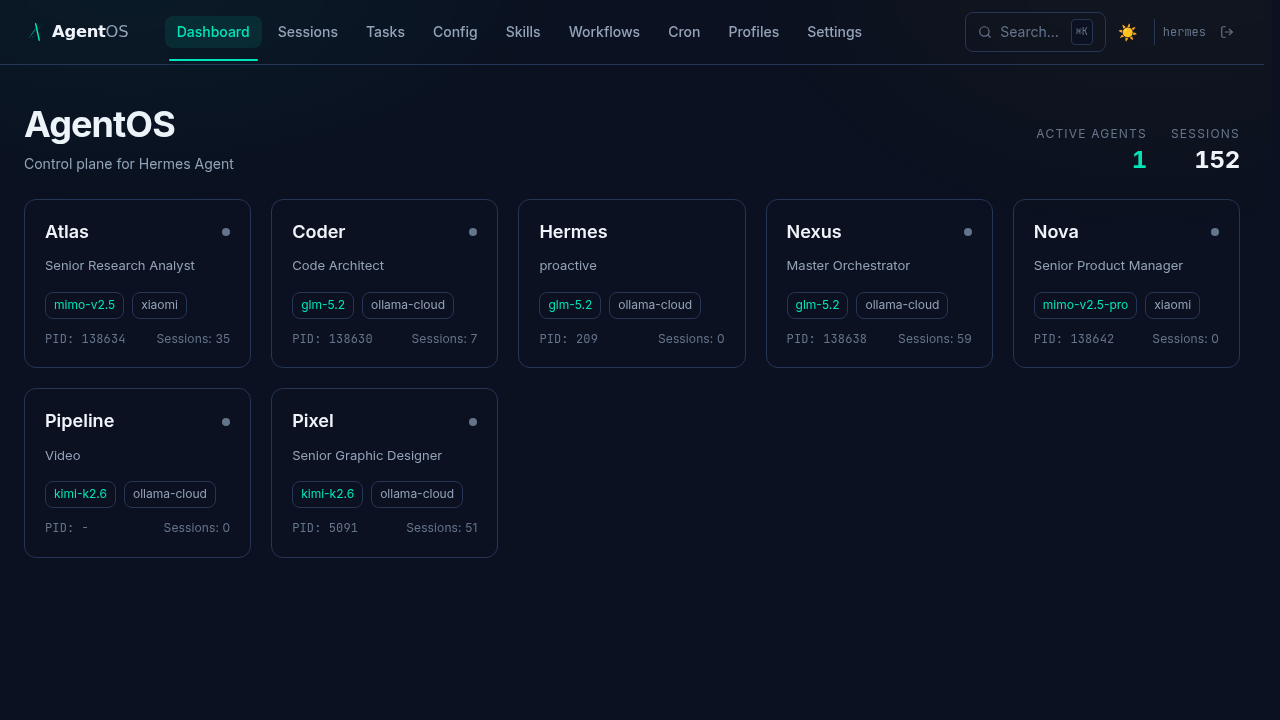
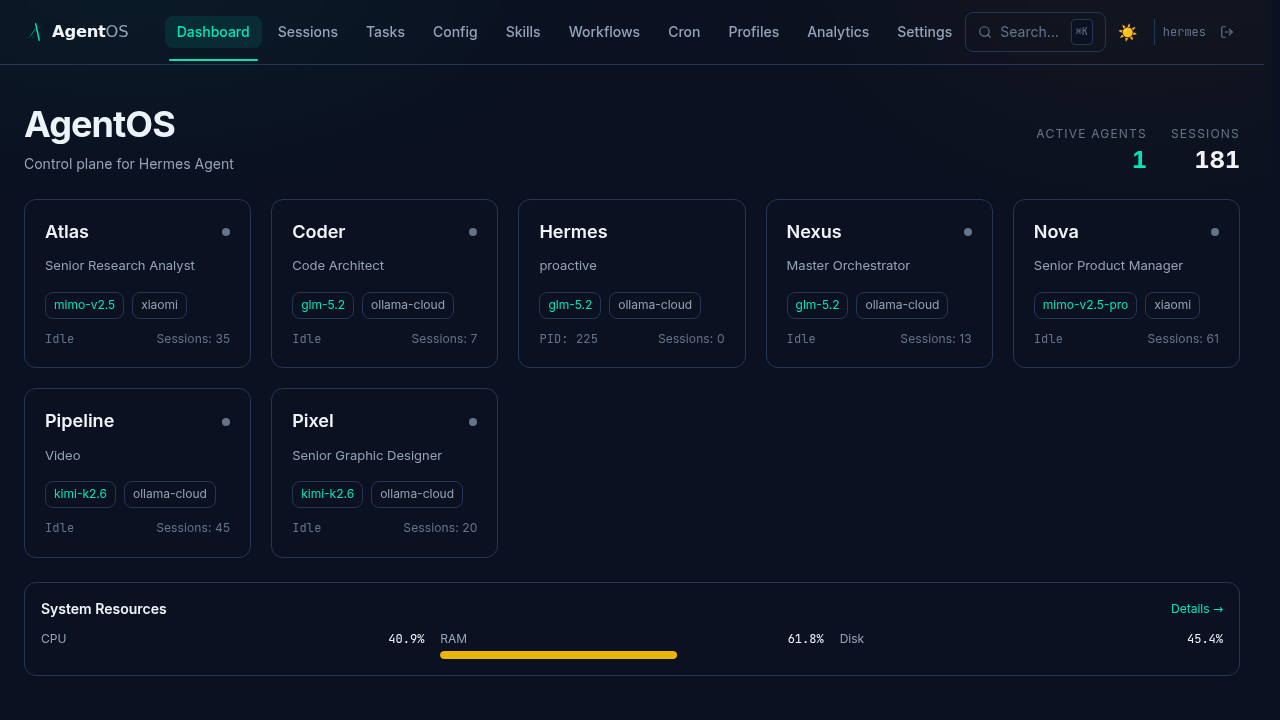
docs: add analytics + session pagination screenshots, update features list
New screenshots:
- 01-dashboard.png updated (hardware widget, idle status, session counts)
- 13-analytics.png (token charts, heatmap, system resources)
- 14-session-pagination.png (page navigation, follow tail checkbox)

Updated features list:
- Dashboard: added hardware monitoring widget
- Session Detail: added pagination, follow-tail, scroll buttons
- Analytics Dashboard: new feature (tokens, heatmap, hardware)
- Profile Editor: added 'live YAML' note on Preview tab

diff --git a/README.md b/README.md
@@ -6,9 +6,10 @@ A web UI control plane for [Hermes Agent](https://hermes-agent.nousresearch.com)
 
 ## Features
 
-- **Agent Dashboard** — Live status cards for all your Hermes profiles (model, provider, gateway state, session count). Auto-discovers the default profile and all sub-profiles.
+- **Agent Dashboard** — Live status cards for all your Hermes profiles (model, provider, gateway state, session count, idle/running status). Auto-discovers the default profile and all sub-profiles. Includes hardware monitoring widget (CPU/RAM/Disk)
 - **Session History** — Browse, search, and filter all conversation sessions with FTS5 full-text search
-- **Session Detail** — Read-only chat thread viewer with reasoning blocks, tool call expansion, and message timeline
+- **Session Detail** — Read-only chat thread viewer with reasoning blocks, tool call expansion, chronological message order (oldest first), pagination with page navigation, follow-tail auto-scroll, and floating scroll-to-top/bottom buttons
+- **Analytics Dashboard** — Token usage analytics (per-model breakdown, 7-day trend charts, cache hit rates), activity heatmap (day×hour grid in local timezone), and live system resource monitoring (CPU, RAM, disk, uptime, load average)
 - **Kanban Board** — Interactive task board with drag-and-drop between 5 columns (backlog, ready, running, done, blocked), markdown rendering in cards, task detail view, and archived toggle
 - **Task Editor** — Edit title, body, assignee, priority, and status in a modal dialog
 - **Filters & Search** — Filter kanban tasks by assignee, priority, status; search by title
@@ -21,7 +22,7 @@ A web UI control plane for [Hermes Agent](https://hermes-agent.nousresearch.com)
 - **Authentication** — JWT-based auth with login page, protected routes, and multi-user support. Password hashing via `hashlib.pbkdf2_hmac` (bcrypt-free, stdlib only)
 - **User Management** — Admin settings page to list, create, and delete users, and change passwords
 - **Cron Job Editor** — CRUD operations on cron jobs with run now, pause/resume, and inline schedule/prompt editing
-- **Advanced Profile Editor** — 6-tab editor: Model, Agent, Toolsets, Description, Memory (SOUL.md), and Preview
+- **Advanced Profile Editor** — 6-tab editor: Model, Agent, Toolsets, Description, Memory (SOUL.md), and Preview (live YAML)
 - **Dark/Light Mode** — Toggle in navbar with localStorage persistence
 - **Keyboard Shortcuts** — ⌘K quick search, `g+{d,s,t,c,k,w}` navigation, `?` help modal
 - **Responsive Design** — Hamburger menu on mobile, adaptive layout
@@ -82,6 +83,14 @@ A web UI control plane for [Hermes Agent](https://hermes-agent.nousresearch.com)
 ### Profile Editor — YAML Preview Tab
 
 ![Profile Editor - Preview](screenshots/12-profile-editor-preview.png)
+
+### Analytics — Token Usage, Activity Heatmap & System Resources
+
+![Analytics](screenshots/13-analytics.png)
+
+### Session Detail — Pagination with Follow Tail
+
+![Session Pagination](screenshots/14-session-pagination.png)
 
 ## Quick Start (Dev Mode)
 